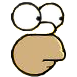
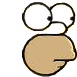
Update background images and more styling

diff --git a/css/style.css b/css/style.css
@@ -9,15 +9,14 @@ html, body {
  }
 
 body {
-
-  background-color: black;
-  color: white;
+  background-color: #9A7855;
+  color: black;
   font-family: 'simpsons', Arial, Helvetica, sans-serif;
 
   display: grid;
   grid-template-areas: "title score" "title board" "message board" "message button";
   grid-template-columns: 1fr 2fr;
-  grid-template-rows: 1fr auto auto 1fr;
+  grid-template-rows: 1fr 2fr 2fr 1fr;
   justify-content: center;
   align-content: center;
 }
@@ -27,12 +26,8 @@ h1 {
   font-size: 5rem;
   margin-top: 12vh;
   text-align: center;
+  color: #15fc00;
 }
-/* h3 > img {
-  display: inline-block;
-  margin: auto 20px;
-  height: 1em;
-} */
 
 h2 {
   grid-area: message;
@@ -41,22 +36,20 @@ h2 {
   text-align: center;
 }
 
-#scoreBoard {
+.scoreBoard {
   grid-area: score;
   display: flex;
   justify-content: center;
   align-items: center;
   margin: 20px auto 20px auto;
-  /* align-items: center; */
-  /* justify-items: center; */
 }
 
-.score {
-  /* display: inline-block; */
+.scoreBoard > .score {
   font-size: 3rem;
   margin: 0 20px;
 }
-img {
+ 
+.scoreBoard > img {
   /* display: inline-block; */
   height: 3rem;
   /* margin: auto; */
@@ -70,14 +63,42 @@ img {
   grid-area: button;
   margin: 20px auto;
   font-family: 'simpsons';
+  color: white;
+  background-color: rgb(60, 60, 60);
 }
 
+main{
+  grid-area: board;
+  grid-template-columns: 1;
+  grid-template-rows: 1;
+  display: grid;
+  /* background-image: url("/images/background.png");
+  background-size: cover; 
+  background-position: center; */
+  /* align-items: center; */
+  /* justify-content: center; */
+  justify-self: stretch;
+  align-self: center;
+}
+
+main > img{
+  grid-column: 1 / 1;
+  grid-row: 1 / 1;
+  margin: 0 auto;
+  width: 100%;
+  height: 100%;
+}
 
 .board {
-  grid-area: board;
-  margin: 0 auto;
-
   display: grid;
+  grid-column: 1 / 1;
+  grid-row: 1 / 1;
+  z-index: 1;
+
+  /* margin: 50% 50%; */
+  justify-self: center;
+  align-self: center;
+  border: 3px solid #4d3a29;
   /* grid-template-rows: repeat(10, auto);
   grid-template-columns: repeat(10, auto); */
   /* to place child elements into the grid */
@@ -89,23 +110,23 @@ img {
   /* grid-gap: 0vmin; */
 
   /* justify-items and align-items */
-  place-items: stretch;
+  /* place-items: stretch; */
 
   /* align-content and justify-content */
-  place-content: center; 
+  /* place-content: center;  */
 
 }
 
 .cell {
-  background-color: #674743;
+  /* background-color: #9A7855; */
 }
 .cell:not(.homer){
-  border: 1px solid #6e4c47;
+  border: 1px solid #7e6044;
 }
 
 .donut {
   background-image: url('/images/donut.png');
-  background-size: 4vmin;
+  background-size: 3vmin;
 }
 
 .homer.body {
@@ -129,23 +150,8 @@ img {
 } */
 
 .homer.head {
-  /* background: #ffd521; */
-  /* background-image: url('/images/homerHead.png') no-repeat; */
-  /* background-size: 4vmin; */
-  border-radius: 0px 30px 30px 0px;
+  border-radius: 0px 10px 10px 0px;
 }
 
 
 
-what {
-    /* x offset, y offset, blur size, spread size, color */
-    box-shadow:
-    inset 0 0 50px #fff,      /* inner white */
-    inset 20px 0 80px #f0f,   /* inner left magenta short */
-    inset -20px 0 80px #0ff,  /* inner right cyan short */
-    inset 20px 0 300px #f0f,  /* inner left magenta broad */
-    inset -20px 0 300px #0ff, /* inner right cyan broad */
-    0 0 50px #fff,            /* outer white */
-    -10px 0 80px #f0f,        /* outer left magenta */
-    10px 0 80px #0ff;         /* outer right cyan */
-}

diff --git a/js/app.js b/js/app.js
@@ -1,7 +1,7 @@
 /*-------------------------------- Constants --------------------------------*/
 const cellsInRowCol = 20 //must be even number to so board is square
 const totalCells = cellsInRowCol ** 2
-const cellSz = '4vmin' //height and width
+const cellSz = '3vmin' //height and width
 const glow = ['#ffd521', '#d8db1b', '#b1e216', '#63ef0b', '#15fc00']
 const arrowKeys = ['ArrowUp', 'ArrowDown', 'ArrowLeft', 'ArrowRight']
 const headDir = "url('/images/homerHead.png')"
@@ -252,7 +252,7 @@ function renderDonut(){
 
     cellEls[donut.idx].classList.add('donut')
 
-    // Remove CSS for previous target (if it exists)
+    // Remove CSS for previous donut location (if it exists)
     if (donut.hasOwnProperty('last')) {
       cellEls[donut.last].classList.remove('donut')
     }
@@ -279,7 +279,7 @@ function renderMessage(){
     }
 
   } else {
-    message =`High Score -- ${highScore}`
+    message =`High Score - ${highScore}`
   }
 
   messageEl.textContent = message

diff --git a/index.html b/index.html
@@ -16,17 +16,19 @@
   <script defer src="./js/app.js"></script>
 </head>
 <body>
-  <h1>Radioactive Homer
-    <!-- <img src="./images/homerSnake.jpg" alt="Homer as a snake"> -->
-  </h1>
+  <h1>Radioactive Homer</h1>
   <h2 class = "message"></h2>
 
-  <div id = "scoreBoard">
+  <div class = "scoreBoard">
     <h3 class = "score"></h3>
     <img src="./images/donut.png" alt="donuts">
   </div>
   
-  <section class="board"></section>
+  <main>
+    <img src= "./images/background.png" alt="">
+    <section class="board"></section>
+  </main>
+  
 
   <button id ="reset">Reset</button>
 </body>

diff --git a/css/temp2.css b/css/temp2.css
@@ -1,0 +1,12 @@
+what {
+  /* x offset, y offset, blur size, spread size, color */
+  box-shadow:
+  inset 0 0 50px #fff,      /* inner white */
+  inset 20px 0 80px #f0f,   /* inner left magenta short */
+  inset -20px 0 80px #0ff,  /* inner right cyan short */
+  inset 20px 0 300px #f0f,  /* inner left magenta broad */
+  inset -20px 0 300px #0ff, /* inner right cyan broad */
+  0 0 50px #fff,            /* outer white */
+  -10px 0 80px #f0f,        /* outer left magenta */
+  10px 0 80px #0ff;         /* outer right cyan */
+}
